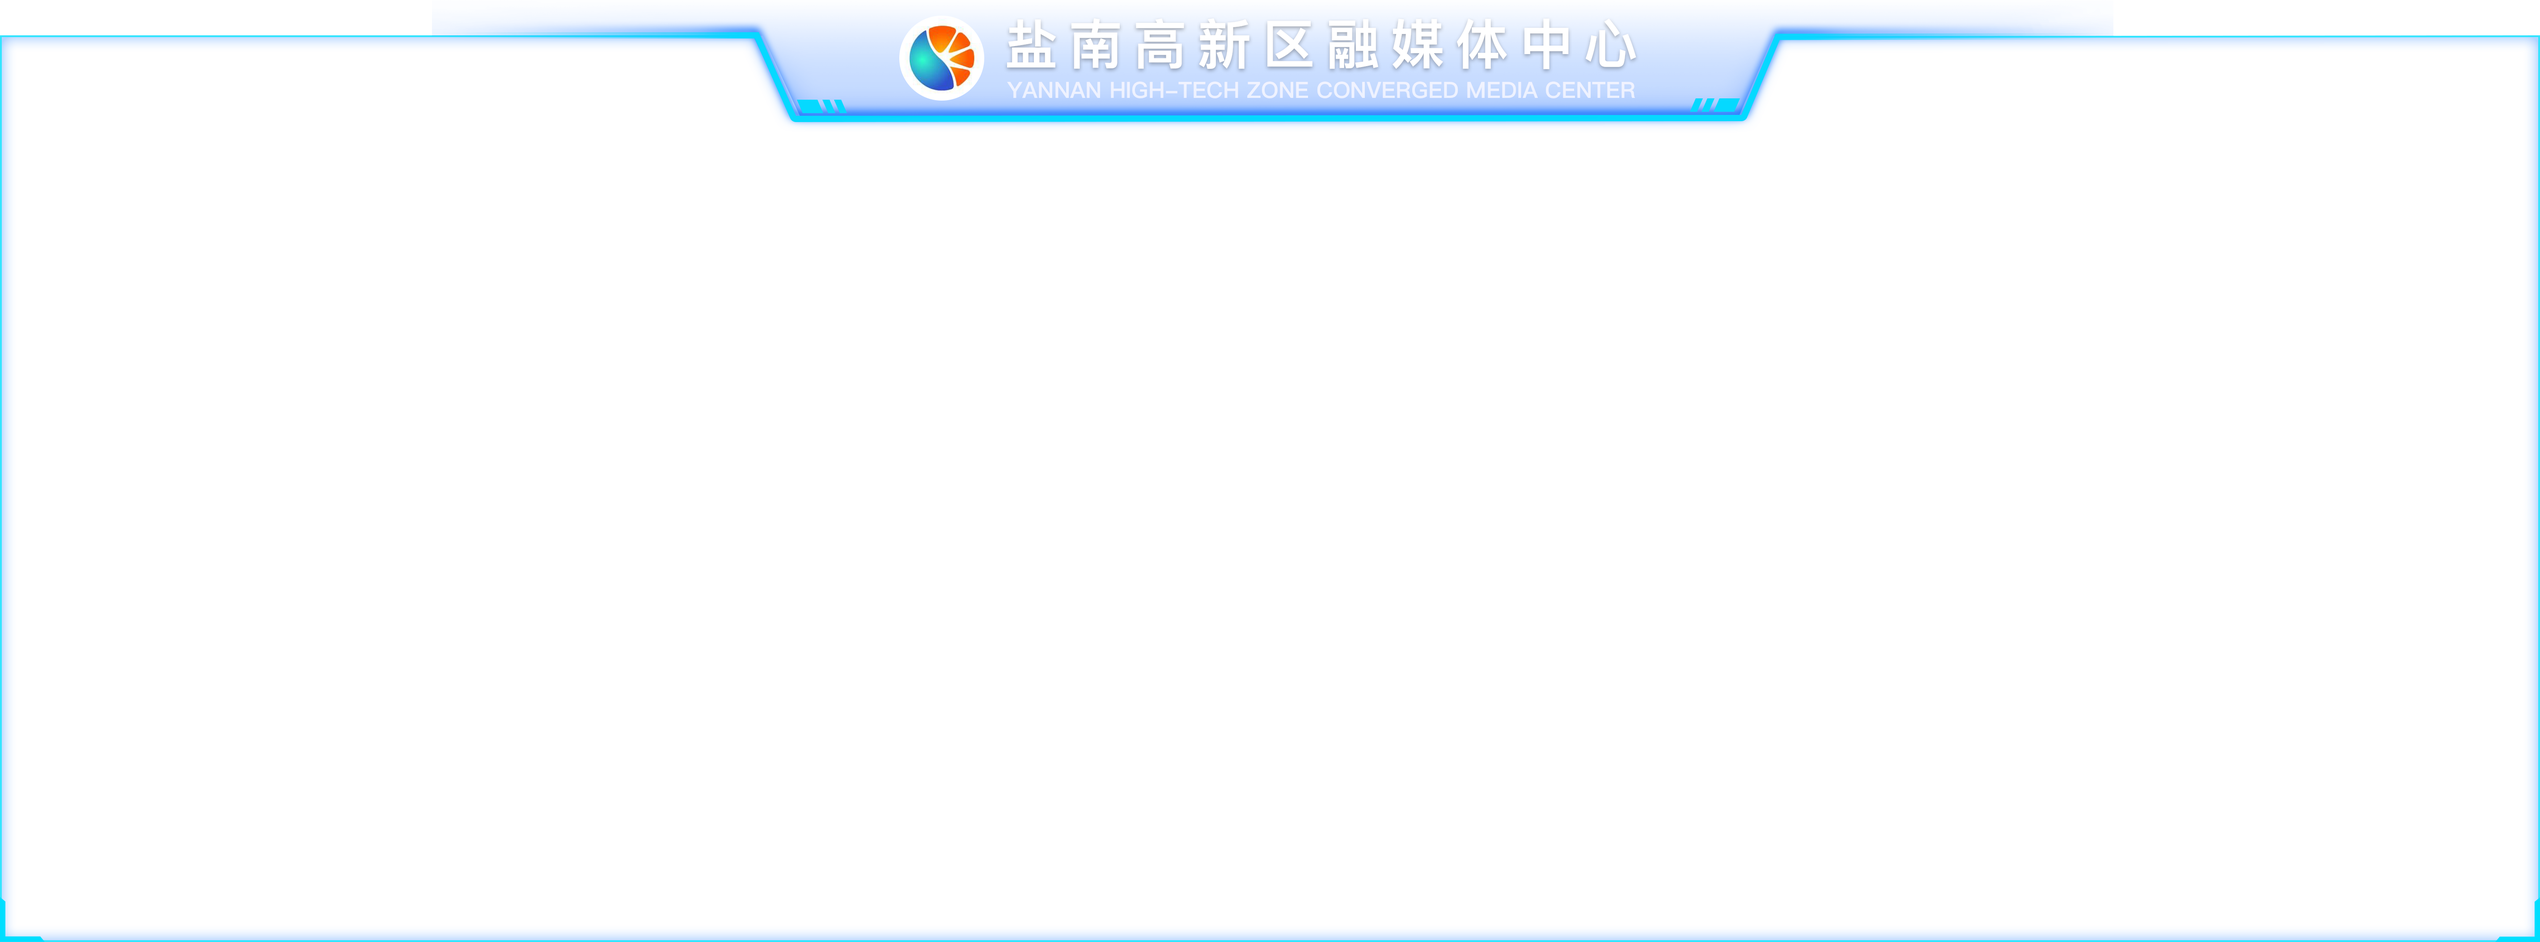
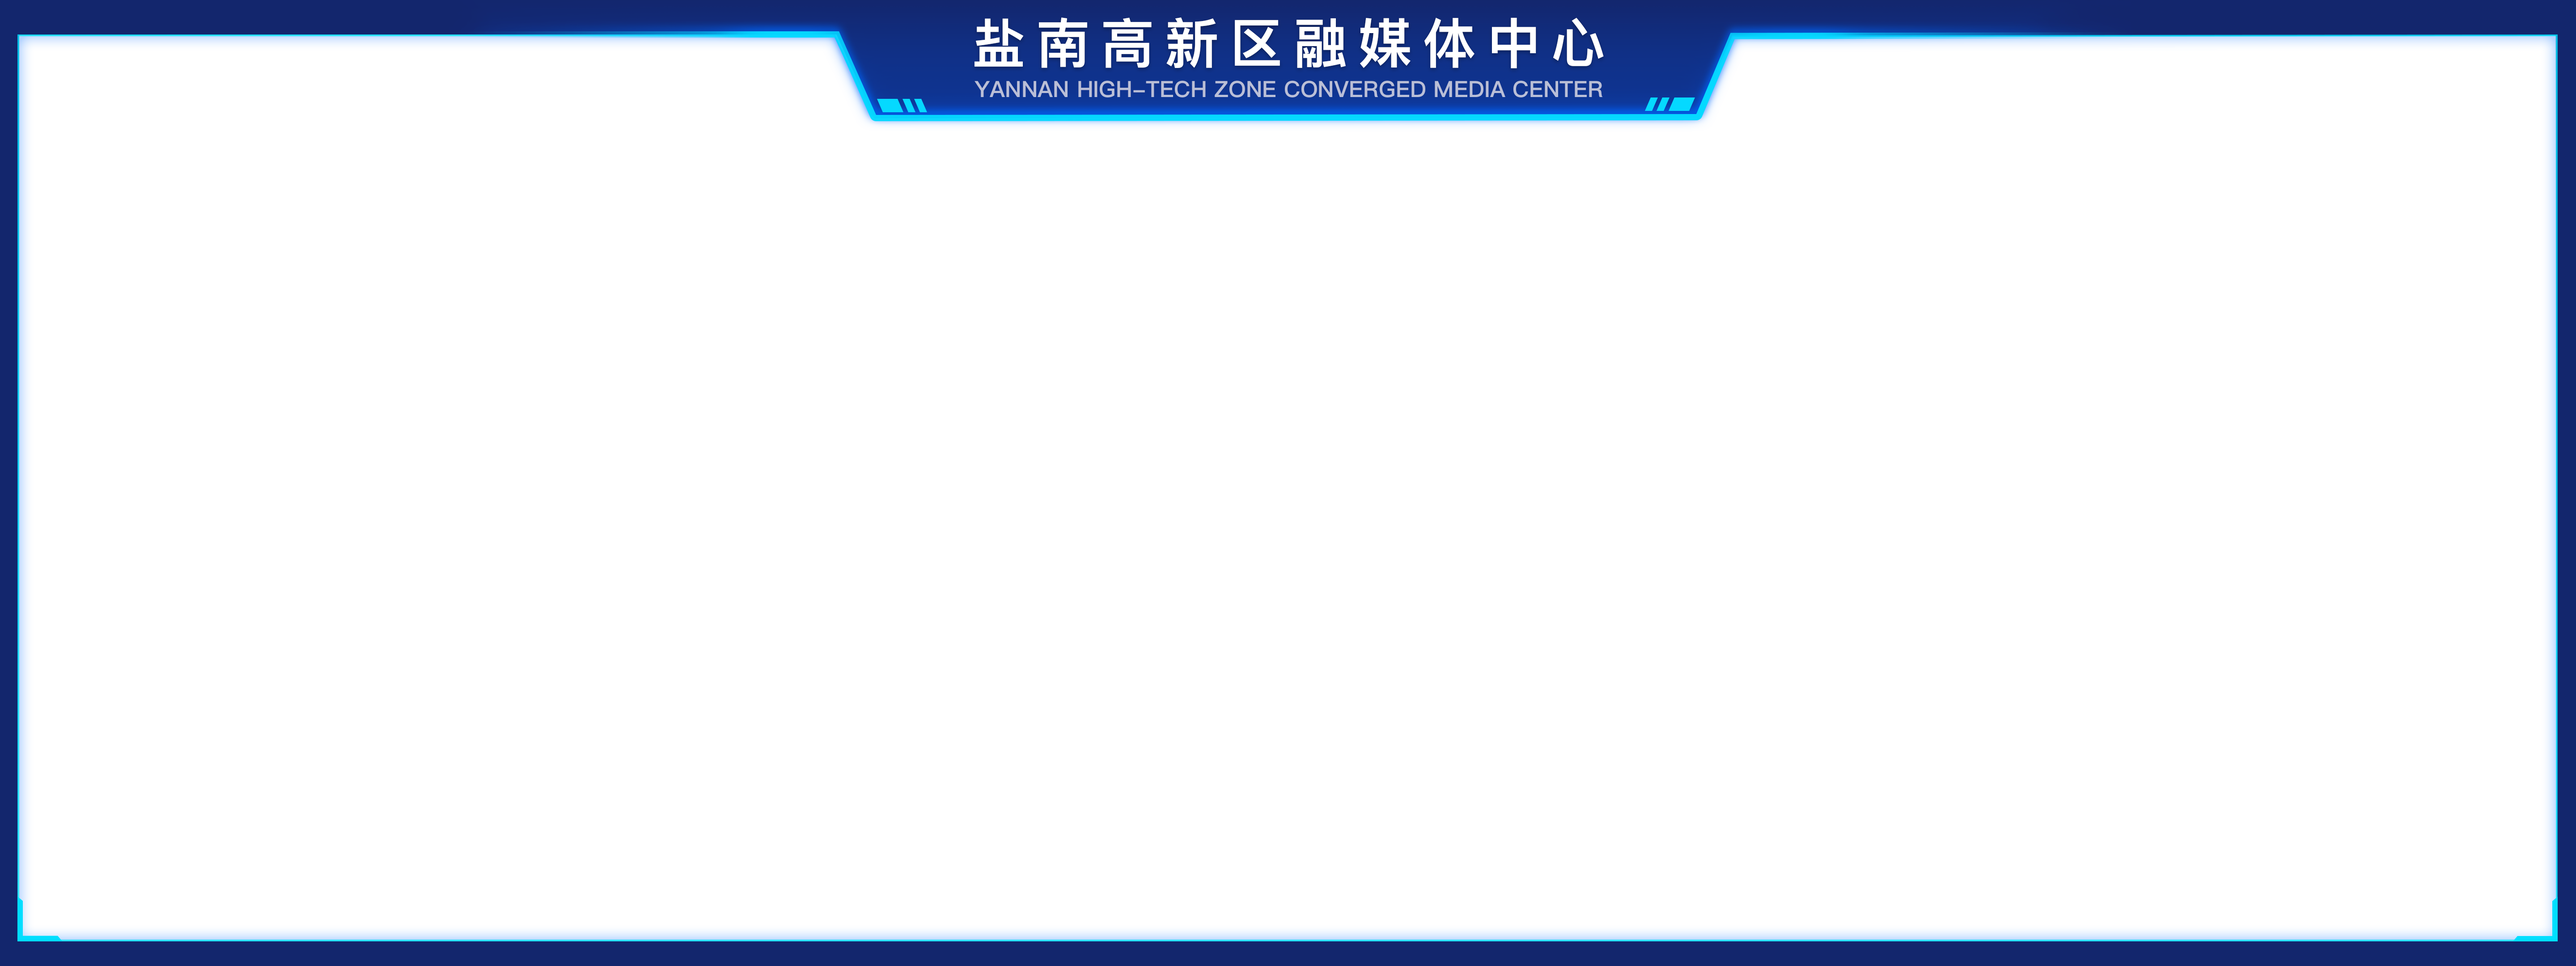
盐城城南大屏指挥连线标题去掉logo

Changed region(s): [[0.0, 0.0, 1.0, 1.0]]

diff --git a/src/components/global/common01/workcallInfoMap03/index.vue b/src/components/global/common01/workcallInfoMap03/index.vue
@@ -235,12 +235,10 @@ export default {
     pointer-events: none;
     position: absolute;
     top: 0;
-    left: 0.2rem;
-    bottom: 0.2rem;
-    right: 0.2rem;
+    left: 0;
     z-index: 2;
-    // width: 100%;
-    // height: 100%;
+    width: 100%;
+    height: 100%;
     background: url("./assets/mapBorder1.png") no-repeat center;
     background-size: 100% 100%;
   }
